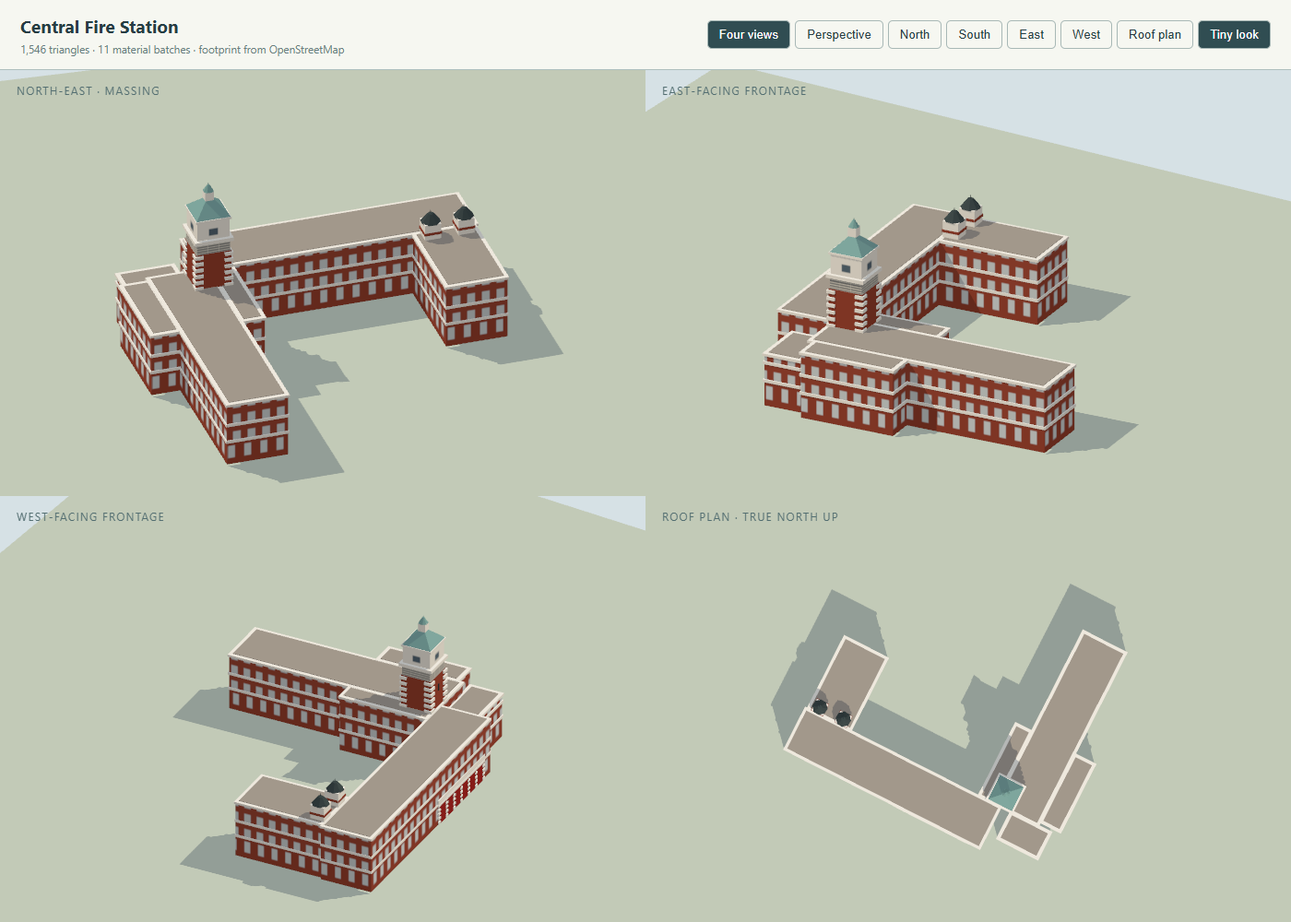
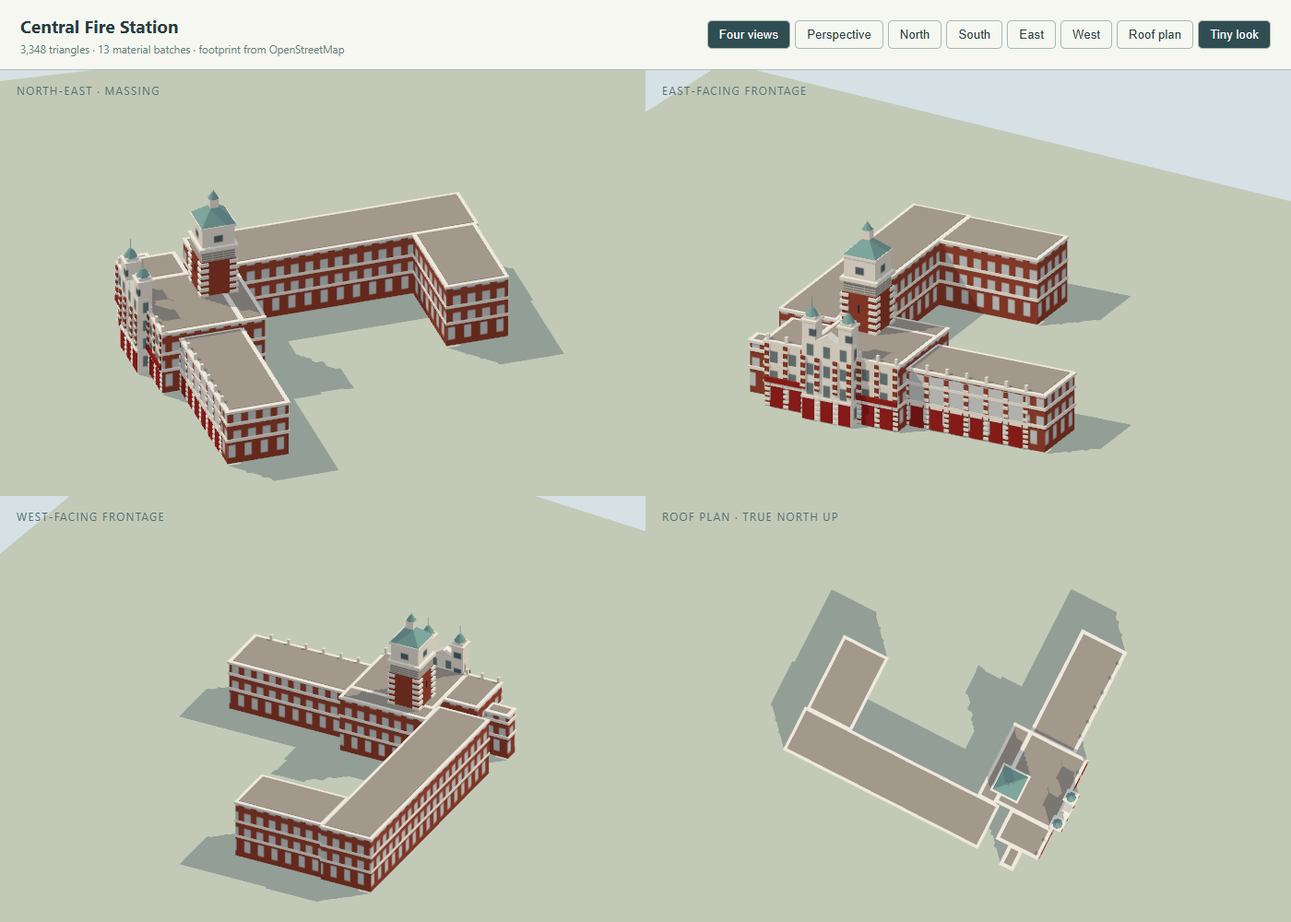
Turn SG-253 Central Fire Station's street front to Hill Street
The first version read the mapped ring the wrong way round. It put the
engine doors, striped piers and veranda on the long south-west range,
which backs onto Fort Canning, and left the Hill Street ranges plain. It
also put the turrets, with 2006-dark domes, on the far north-west block
and the tower 2.75 m south of its place. OSM's own Hill Street runs
along the ring's east side, and the 2023 photographs and the aerial
agree.

- The Hill Street face now carries the street front: seven red arched
  doors on the 1909 block (three on the frontispiece) and six on the
  lower extension to the north, between red-and-white striped piers,
  with a red balcony, white upper floors, white shutters, and pinnacles
  on the parapets.
- The white frontispiece rises to its pediment between the twin
  turrets, whose pale green copper domes and spikes match the 2023-25
  photographs. The tower is centred behind it.
- The south-west range is a plain back range.

A new test pins the orientation against OSM's Hill Street nodes and
fails on the first version; the other probes are relabelled to the real
ranges. Source notes, renders and the checklist row (back to review)
are updated. Full Windows suite 637 of 638 (only the tile-worker
fixture fails).

diff --git a/js/landmark-models/central-fire-station.js b/js/landmark-models/central-fire-station.js
@@ -1,5 +1,8 @@
 // The 1908-09 Hill Street fire station: red-brick ranges with white "bandage" bands around an
-// open drill yard, six red engine doors, domed corner turrets and the striped hose tower.
+// open drill yard. The street front faces Hill Street to the east: the white pedimented
+// frontispiece between its twin green-domed turrets, the striped hose tower centred behind it,
+// red arched doors between red-and-white striped piers along the 1909 block and the lower
+// extension to the north, under white parapets with pinnacles.
 // See docs/central-fire-station.md for the drawing frame and reference photographs.
 export const info = { name: 'Central Fire Station', height: 34 };
 
@@ -14,16 +17,28 @@ export function build(kit, site) {
     return kit.box({ x, z, yaw: Math.atan2(u[1], u[0]), ...options });
   };
   const plan = points => points.map(([a, b]) => point(a, b));
+  // A slab on the Hill Street side whose first wall is its street face at a1, running from b0
+  // to b1, so a facade's bays start at b0.
+  const facing = (a0, a1, b0, b1, y0, y1, material, top, name) => {
+    const r = plan([[a1, b0], [a1, b1], [a0, b1], [a0, b0]]);
+    const part = kit.prism({ ring: r, y0, y1, material, top, name });
+    kit.collisionPrism({ ring: r, y0, y1 });
+    return part;
+  };
 
   const brickGround = kit.facadeMaterial({ wall: 0x96422f, window: 0xe3e0d5, pattern: 'punched', floorHeight: 4.8, bayWidth: 3.2, windowWidth: 0.42, windowHeight: 0.55 });
   const brickUpper = kit.facadeMaterial({ wall: 0x9a4633, window: 0xdedbd0, pattern: 'punched', floorHeight: 3.7, bayWidth: 2.9, windowWidth: 0.52, windowHeight: 0.62 });
   const attic = kit.facadeMaterial({ wall: 0xf0ece1, window: 0x39474d, pattern: 'punched', floorHeight: 3.9, bayWidth: 6.4, windowWidth: 0.28, windowHeight: 0.38 });
   const louvre = kit.facadeMaterial({ wall: 0xd9d4c6, window: 0x4a423c, pattern: 'ribbon', floorHeight: 0.5, bayWidth: 2.2 });
+  // The street front's upper floors: white plaster round dark windows on the 1909 block and its
+  // frontispiece; white shutters between red piers on the extension.
+  const streetUpper = kit.facadeMaterial({ wall: 0xeee9dd, window: 0x5d6b62, pattern: 'punched', floorHeight: 3.9, bayWidth: 3.8, windowWidth: 0.42, windowHeight: 0.6 });
+  const frontispiece = kit.facadeMaterial({ wall: 0xf2eee4, window: 0x5d6b62, pattern: 'punched', floorHeight: 3.9, bayWidth: 10.3 / 3, windowWidth: 0.42, windowHeight: 0.6 });
+  const shutters = kit.facadeMaterial({ wall: 0x9a4633, window: 0xe6e3d8, pattern: 'strips', floorHeight: 11, bayWidth: 4.1, windowWidth: 0.74 });
   const white = kit.material(0xf0ece1);
   const brick = kit.material(0x96422f);
   const doorRed = kit.material(0x9c2320, { roughness: 0.55 });
   const copper = kit.material(0x7ea8a1, { roughness: 0.45, metalness: 0.3 });
-  const slate = kit.material(0x3e4a4a);
   const roofTop = kit.material(0xa39a8e);
   const dark = kit.material(0x33393b);
 
@@ -48,49 +63,78 @@ export function build(kit, site) {
     box(ac, bc, { y: cornice.y1 - 0.03, w: w - 1.1, h: 0.14, d: d - 1.1, material: roofTop, top: roofTop, name: `${name}-roof` });
   };
 
-  wing(0, 55, 0, 11.8, 12.6, 'front-range');
-  wing(0.6, 12.8, 11.8, 32.2, 12.6, 'coleman-wing');
-  wing(48.7, 53.3, 11.8, 32.2, 12.6, 'tower-court');
-  wing(53.3, 65.4, 11.8, 60.5, 12.6, 'rear-barracks');
-  wing(65.4, 71.1, 13, 32, 12.6, 'se-side-wing');
-  wing(57.8, 69, 4.4, 11.8, 9.9, 'se-street-pavilion');
+  // The ranges as the mapped ring decomposes: the plain back range toward Fort Canning and the
+  // north-west block across the yard; the 1909 block along Hill Street (narrower at its south
+  // end, with its yard-side court) and the lower extension running north from it to the corner
+  // block; the small porch at the south end.
+  wing(0, 54.5, 0, 11.8, 12.6, 'back-range');
+  wing(0.6, 12.8, 11.8, 32.2, 12.6, 'north-west-block');
+  wing(48.7, 53.3, 11.8, 32.1, 12.6, 'tower-court');
+  wing(53.3, 69, 12.5, 32, 12.6, 'hill-street-block');
+  wing(57.8, 69, 4.4, 12.5, 12.6, 'hill-street-south');
+  wing(53.3, 65.4, 32, 60.5, 10.9, 'hill-street-extension');
+  wing(61.5, 64.7, -0.9, 4.4, 9.9, 'south-porch');
 
-  // Hill Street engine house: six red doors between finely striped piers, under the
-  // shuttered veranda floor with its white balustrade band.
-  const doors = [32.9, 36.3, 39.7, 43.1, 46.5, 49.9];
-  for (const a of doors) {
-    box(a, -0.06, { y: 0, w: 2.5, h: 4.3, d: 0.24, material: doorRed, top: doorRed, name: 'engine-door' });
-    box(a, -0.13, { y: 4.28, w: 2.44, h: 0.45, d: 0.3, material: white, top: white, name: 'engine-door-lintel' });
+  // Hill Street front. The 1909 block's face stands at a 69 with the frontispiece projecting to
+  // a 71.1 between b 13.1 and 23.4; the extension's face is set back at a 65.4.
+  const FACE = 69, PROJ = 71.1, EXT = 65.4, MID = (13.1 + 23.4) / 2;
+  const front = [[FACE, [6.9, 10.7]], [PROJ, [14.5, MID, 22.0]], [FACE, [25.8, 29.6]], [EXT, [0, 1, 2, 3, 4, 5].map(k => 34.05 + k * 4.1)]];
+  const piers = [[FACE, [5.0, 8.8, 12.4, 24.0, 27.7, 31.5]], [PROJ, [16.4, 20.1]], [EXT, [0, 1, 2, 3, 4, 5, 6].map(k => 32 + k * 4.1)]];
+  for (const [face, doors] of front) for (const b of doors) {
+    box(face + 0.06, b, { y: 0, w: 0.24, h: 4.3, d: 2.5, material: doorRed, top: doorRed, name: 'engine-door' });
+    box(face + 0.13, b, { y: 4.28, w: 0.3, h: 0.45, d: 2.44, material: white, top: white, name: 'engine-door-lintel' });
   }
-  for (const a of [31.2, 34.6, 38, 41.4, 44.8, 48.2, 51.6]) {
-    for (let k = 0; k < 5; k++) box(a, -0.08, { y: 0.22 + k * 1.0, w: 0.95, h: 0.5, d: 0.34, material: white, top: white, name: 'striped-pier' });
+  for (const [face, list] of piers) for (const b of list) {
+    for (let k = 0; k < 5; k++) box(face + 0.08, b, { y: 0.22 + k * 1.0, w: 0.34, h: 0.5, d: 0.95, material: white, top: white, name: 'striped-pier' });
   }
-  box(41.4, -0.1, { y: 5.05, w: 21.4, h: 0.9, d: 0.25, material: white, top: white, name: 'veranda-balustrade' });
+  // The 1909 block's upper floors: white plaster between red-and-white striped piers, over the
+  // red balcony; the extension's white shutters between its red piers.
+  for (const [b0, b1] of [[4.45, 13.1], [23.4, 31.95]]) {
+    facing(FACE - 0.04, FACE + 0.15, b0, b1, 4.8, 12.58, streetUpper, white, 'street-upper'); // just under the block's own roof
+    facing(FACE, FACE + 0.6, b0 + 0.05, b1 - 0.05, 5.0, 6.0, doorRed, doorRed, 'balcony');
+  }
+  for (const [face, list] of [[FACE, piers[0][1]], [PROJ, [13.5, 16.4, 20.1, 23.0]]]) for (const b of list) {
+    box(face + 0.3, b, { y: 6.0, w: 0.3, h: 6.6, d: 0.9, material: brick, top: brick, name: 'upper-pier' });
+    for (let k = 0; k < 4; k++) box(face + 0.36, b, { y: 6.5 + k * 1.6, w: 0.3, h: 0.55, d: 0.96, material: white, top: white, name: 'upper-pier-stripe' });
+  }
+  facing(EXT - 0.04, EXT + 0.15, 32, 56.6, 4.8, 10.6, shutters, white, 'extension-shutters');
+  for (const b of piers[2][1]) for (let k = 0; k < 3; k++) box(EXT + 0.27, b, { y: 5.6 + k * 1.6, w: 0.24, h: 0.55, d: 1.0, material: white, top: white, name: 'upper-pier-stripe' });
+  // Pinnacles along both parapets, over the piers.
+  for (const b of piers[0][1]) box(FACE - 0.2, b, { y: 13.0, w: 0.55, h: 1.4, d: 0.55, material: white, top: white, name: 'pinnacle' });
+  for (const b of piers[2][1].slice(1)) box(EXT - 0.2, b, { y: 11.3, w: 0.55, h: 1.4, d: 0.55, material: white, top: white, name: 'pinnacle' });
 
-  // The twin domed turrets at the Coleman Street end of the front.
-  for (const [a, b] of [[3.2, 13.5], [9.8, 13.5]]) {
-    const turret = box(a, b, { y: 12.3, w: 3.2, h: 4.1, d: 3.2, material: white, top: white, name: 'turret' });
+  // The white frontispiece rising over the parapet to its pediment, between the two turrets.
+  facing(FACE, PROJ, 13.1, 23.4, 0, 15.8, frontispiece, white, 'frontispiece');
+  for (const [b0, b1, toward] of [[15.9, MID, 207], [MID, 20.6, 27]]) {
+    const r = plan([[FACE + 0.1, b0], [PROJ, b0], [PROJ, b1], [FACE + 0.1, b1]]);
+    kit.prism({ ring: r, y0: 15.8, y1: kit.sloped(r, 17.4, 1.5, toward), material: white, top: white, name: 'frontispiece-pediment' });
+  }
+  // The twin turrets on the frontispiece's corners: white stages, a cornice, a drum and the
+  // pale green copper domes with their spikes.
+  for (const b of [14.5, 22.0]) {
+    const a = PROJ - 1.45; // 5 cm inside the frontispiece's faces
+    const turret = box(a, b, { y: 12.6, w: 2.8, h: 6.8, d: 2.7, material: attic, top: white, name: 'turret' });
     kit.collisionPrism({ ring: turret.ring, y0: turret.y0, y1: turret.y1 });
-    box(a, b, { y: 14.2, w: 3.45, h: 0.5, d: 3.45, material: brick, top: brick, name: 'turret-band' });
+    box(a, b, { y: 19.4, w: 3.3, h: 0.4, d: 3.3, material: white, top: white, name: 'turret-cornice' });
+    box(a, b, { y: 19.8, w: 2.3, h: 0.6, d: 2.3, material: white, top: white, name: 'turret-drum' });
     const [cx, cz] = point(a, b);
     const domeRing = Array.from({ length: 8 }, (_, k) => {
       const t = k * Math.PI / 4 + Math.PI / 8;
-      return [cx + Math.cos(t) * 2.0, cz + Math.sin(t) * 2.0];
+      return [cx + Math.cos(t) * 1.35, cz + Math.sin(t) * 1.35];
     });
-    kit.loft({ ring: domeRing, y0: 16.35, y1: 18.1, scale: 0.28, material: slate, top: slate, name: 'turret-dome' });
-    kit.collisionPrism({ ring: kit.inset(domeRing, 0.9), y0: 16.35, y1: 18.1 });
-    kit.cylinder({ x: cx, z: cz, y0: 18.05, y1: 18.75, r: 0.07, segments: 6, material: slate, top: slate, name: 'turret-finial' });
+    kit.loft({ ring: domeRing, y0: 20.4, y1: 21.9, scale: 0.28, material: copper, top: copper, name: 'turret-dome' });
+    kit.collisionPrism({ ring: kit.inset(domeRing, 0.6), y0: 20.4, y1: 21.9 });
+    kit.cylinder({ x: cx, z: cz, y0: 21.85, y1: 24, r: 0.07, segments: 6, material: copper, top: copper, name: 'turret-finial' });
   }
 
-  // The hose/lookout tower behind the front range, where it turns into the rear barracks.
-  const T = { a: 54.5, b: 15.5 };
+  // The hose/lookout tower, centred behind the frontispiece where the 1909 block meets its court.
+  const T = { a: 54.5, b: MID };
   const shaft = box(T.a, T.b, { y: 12.3, w: 7, h: 8.45, d: 7, material: brick, top: roofTop, name: 'tower-shaft' });
   kit.collisionPrism({ ring: shaft.ring, y0: shaft.y0, y1: shaft.y1 });
-  for (const [ca, cb] of [[51, 12], [58, 12], [51, 19], [58, 19]]) {
-    const ia = ca + (ca < T.a ? 0.55 : -0.55), ib = cb + (cb < T.b ? 0.55 : -0.55);
-    for (let k = 0; k < 6; k++) box(ia, ib, { y: 13.1 + k * 1.35, w: 1.7, h: 0.62, d: 1.7, material: white, top: white, name: 'tower-quoin' });
+  for (const ca of [T.a - 2.95, T.a + 2.95]) for (const cb of [T.b - 2.95, T.b + 2.95]) {
+    for (let k = 0; k < 6; k++) box(ca, cb, { y: 13.1 + k * 1.35, w: 1.7, h: 0.62, d: 1.7, material: white, top: white, name: 'tower-quoin' });
   }
-  box(T.a, 11.95, { y: 17, w: 0.35, h: 1.6, d: 0.24, material: dark, top: dark, name: 'tower-slit' });
+  for (const [a, b, w, d] of [[T.a + 3.55, T.b, 0.24, 0.35], [T.a, T.b - 3.55, 0.35, 0.24]]) box(a, b, { y: 17, w, h: 1.6, d, material: dark, top: dark, name: 'tower-slit' });
   const louvres = box(T.a, T.b, { y: 20.7, w: 6.6, h: 2.3, d: 6.6, material: louvre, top: white, name: 'tower-louvres' });
   kit.collisionPrism({ ring: louvres.ring, y0: louvres.y0, y1: louvres.y1 });
   box(T.a, T.b, { y: 22.95, w: 7.7, h: 0.7, d: 7.7, material: white, top: white, name: 'tower-cornice' });

diff --git a/docs/central-fire-station.md b/docs/central-fire-station.md
@@ -1,32 +1,35 @@
 # Central Fire Station (SG-253)
 
-This model covers the 1908–09 Central Fire Station at 62 Hill Street — Singapore's oldest surviving fire station, a national monument still in operational use — in its present (2025–26) outward form: red-brick ranges around an open drill yard, the striped hose/lookout tower, and the domed corner turrets.
+This model covers the 1908–09 Central Fire Station at 62 Hill Street — Singapore's oldest surviving fire station, a national monument still in operational use — in its present (2023–25) outward form: red-brick ranges around an open drill yard, the street front facing Hill Street with its white pedimented frontispiece and twin domed turrets, and the striped hose tower behind them.
 
 ## References
 
 - [National Heritage Board's Roots entry](https://www.roots.gov.sg/places/places-landing/Places/national-monuments/central-fire-station) gives the site (62 Hill Street, at the foot of Fort Canning Hill), construction from 1908 to completion in 1909, designer William Ferguson, and the "blood-and-bandage" reading of the façade: exposed red brick ("blood") with white-painted plaster bands ("bandage"). The National Library Board's [Infopedia article](https://eresources.nlb.gov.sg/infopedia/articles/SIP_857_2004-12-15.html) adds that the three-storey main building held the engine house, firemen's quarters, workshops and a training yard, and that it was gazetted a national monument on 18 December 1998.
 - The NHB's republication at [Wonderwall](https://wonderwall.sg/places/national-monuments-of-singapore-central-fire-station) describes the 34-metre lookout tower, once manned around the clock; the model takes the tower (to its cupola finial) as its 34 m datum.
-- Reference photographs viewed 4 November 2026 on Wikimedia Commons: [Central Fire Station, Singapore, Jan 06](https://commons.wikimedia.org/wiki/File:Central_Fire_Station,_Singapore,_Jan_06.JPG) (Hill Street front: six arched red engine doors between fine red/white striped piers, shuttered veranda upper floors, white parapet, the striped tower behind, plainer brick side wing to the south-east, domed turrets at the north-west end), [CentralFireStation-Singapore-20081107-full](https://commons.wikimedia.org/wiki/File:CentralFireStation-Singapore-20081107-full.jpg) (tower detail: white quoin stripes on brick, slit window, louvred stage with small white columns, white attic stage with an arched window, pale green-copper pyramidal roof and domed lantern cupola), and [Central Fire Station, October 2025](https://commons.wikimedia.org/wiki/File:Central_Fire_Station,_October_2025.jpg) (current condition from Coleman Street: shuttered windows, white floor bands, the round-window turret).
+- Reference photographs viewed 4 November 2026 on Wikimedia Commons: [Estación central de bomberos, Singapur, 2023-08-18](https://commons.wikimedia.org/wiki/File:Estaci%C3%B3n_central_de_bomberos,_Singapur,_2023-08-18,_DD_10.jpg) (the Hill Street front square-on: from the south, a plain brick end, the 1909 block with seven red arched doors under a red balcony, its white frontispiece in the middle rising to a pediment between two white turrets with pale green copper domes and spikes, the tower centred behind them, then the lower extension with six red doors under white shutters, white balustrades with pinnacles, and a plain brick block at the north end), [At Singapore 2023 045 - Central Fire Station](https://commons.wikimedia.org/wiki/File:At_Singapore_2023_045_-_Central_Fire_Station.jpg) (the same front from the north along Hill Street, the tower rising behind the frontispiece), [2016 Singapur, Museum Planning Area, Budynek główny straży pożarnej (01)](https://commons.wikimedia.org/wiki/File:2016_Singapur,_Museum_Planning_Area,_Budynek_g%C5%82%C3%B3wny_stra%C5%BCy_po%C5%BCarnej_(01).jpg) (from the south: the plain brick south end, the tower behind it), [CentralFireStation-Singapore-20081107-full](https://commons.wikimedia.org/wiki/File:CentralFireStation-Singapore-20081107-full.jpg) (tower detail: white quoin stripes on brick, slit window, louvred stage with small white columns, white attic stage with an arched window, pale green-copper pyramidal roof and domed lantern cupola), [Central Fire Station, Singapore, Jan 06](https://commons.wikimedia.org/wiki/File:Central_Fire_Station,_Singapore,_Jan_06.JPG) (2006, from the north: the turrets' domes were then dark grey) and [Central Fire Station, October 2025](https://commons.wikimedia.org/wiki/File:Central_Fire_Station,_October_2025.jpg) (from the south: the domes are pale green copper today).
+- [Esri World Imagery](https://www.arcgis.com/home/item.html?id=10df2279f9684e4a9f6a7f08febac2a9) (z19 tiles, viewed 4 November 2026) with the mapped ring and OSM's Hill Street and Coleman Street drawn over it: Hill Street runs along the ring's east side, Coleman Street beyond its north end; the long south-west range with its row of roof lights backs onto the slope of Fort Canning; the tower's copper pyramid stands behind the middle of the Hill Street range.
 
 ## Footprint and massing
 
 The 25 October 2026 local OSM extract maps the whole complex as one 41-point way, [way 172368086](https://www.openstreetmap.org/way/172368086) (`building=fire_station`, `building:levels=3`, `height=20`, `start_date=1908`). This single way is the only replacement; there are no relations or inner rings, and the drill yard is open because the mapped ring itself is only the perimeter ranges (about 1,670 m² within an 84 × 59 m bounding span). The Armenian Church, Children's Museum and National Archives across the surrounding streets remain mapped.
 
-The model uses a local drawing frame from the ring's south-west (Hill Street) corner at 103.8485982°E, 1.2921487°N: `a` metres south-east along Hill Street (true bearing 117°) and `b` metres north-east into the site (bearing 27°). In that frame the ring decomposes into the ranges the model builds, abutting rather than overlapping:
+The model uses a local drawing frame from the ring's south-west corner at 103.8485982°E, 1.2921487°N: `a` metres along the long south-west range (true bearing 117°) and `b` metres north-north-east (bearing 27°), parallel to Hill Street, which runs along the ring's east side at about `a 74–78` (OSM's Hill Street nodes). In that frame the ring decomposes into the ranges the model builds, abutting rather than overlapping:
 
-- Hill Street front range `a 0–55, b 0–11.8` — ground floor (to 4.8 m) in punched brick with six red engine-door panels and fine striped piers on the street face (south-east section, doors centred `a 33–50`), shuttered upper floors to 12.6 m, white parapet to 13.4 m.
-- Coleman Street (north-west) wing `a 0.6–12.8, b 11.8–32.2`, same roofline, with the twin domed turrets (white stages to 16.4 m, dark domes to about 19 m) at its street end.
-- South-east side wing `a 65.4–71.1, b 13–32` and its street pavilion `a 57.8–69, b 4.4–12.5` (lower, to 10.5 m), following the ring's stepped south-east end.
-- Rear (north-east) barracks wing `a 53.3–65.4, b 32–60.5`, same 13.4 m roofline.
-- Hose/lookout tower centred `a 54.5, b 15`, where the ring widens behind the front range: a 7 × 7 m brick shaft with white corner quoin stripes rising from the front roof to 23 m, a white cornice and attic stage to 28 m, a pale copper-green pyramidal roof to 30.8 m and the domed lantern cupola to 34 m.
+- The plain back range `a 0–54.5, b 0–11.8`, its brick face toward Fort Canning, and the north-west block `a 0.6–12.8, b 11.8–32.2` across the drill yard: three storeys to 12.6 m.
+- The 1909 block along Hill Street, `a 53.3–69, b 12.5–32`, narrower at its south end (`a 57.8–69, b 4.4–12.5`), with its yard-side court `a 48.7–53.3, b 11.8–32.1`, to 12.6 m; the small porch `a 61.5–64.7, b −0.9–4.4` at the south end, to 9.9 m.
+- The lower extension north along Hill Street, `a 53.3–65.4, b 32–60.5`, to 10.9 m, its face set back to `a 65.4`.
+- The street front. The 1909 block's face at `a 69` and its white frontispiece projecting to `a 71.1` between `b 13.1` and `23.4` carry seven red arched doors (two, three on the frontispiece, two) between red-and-white striped piers, the red balcony at 5–6 m, white plaster upper floors with striped piers, and pinnacles on the parapet; the frontispiece rises to 15.8 m under a pediment to 17.4 m. The extension carries six red doors at 4.1 m centres, white shutters between its red piers, and pinnacles. Two turrets (2.8 m white stages from the roof to 19.4 m, cornice, drum, pale green copper domes to 21.9 m, spikes to 24 m) stand on the frontispiece's corners at `b 14.5` and `22.0`.
+- The hose/lookout tower centred behind the frontispiece at `a 54.5, b 18.25`: a 7 × 7 m brick shaft with white corner quoin stripes rising from the roof to 20.75 m, a louvred stage, a white cornice and attic stage to 28 m, a pale copper-green pyramidal roof to 30.8 m and the domed lantern cupola to 34 m.
 
-White floor bands (0.55 m deep, standing 0.12 m proud) run around every range at the floor lines, giving the "bandage" stripes at map scale. The mapped `height=20` describes the whole complex loosely; the ranges' 13.4 m and the tower stages are visual estimates from the photographs against the documented 34 m tower total (three 3.6–4.8 m storeys for the ranges). The drill yard (`a 13–49, b 12–60`) and the ground below the tower's roof stages stay open in geometry and collision; small rear steps in the mapped ring's south-east edge (ring points 28–38) are absorbed into the side wing and street pavilion rectangles.
+White floor bands (0.55 m deep, standing proud) run around every range at the floor lines, giving the "bandage" stripes at map scale. The mapped `height=20` describes the whole complex loosely; the ranges' heights, the frontispiece, turret and tower stages are visual estimates from the square-on 2023 photograph (about 19 px per metre at the façade) against the documented 34 m tower total. The drill yard (`a 13–49, b 12–60`) stays open in geometry and collision; small steps in the mapped ring are absorbed into the range rectangles.
+
+A first version of this model (PR #29) read the ring the wrong way round: it put the engine doors, striped piers and veranda on the south-west range facing Fort Canning, left the Hill Street ranges plain, placed the turrets with dark domes on the far north-west block, and the tower 2.75 m south of its place behind the frontispiece. It was corrected against the photographs and the aerial on 4 November 2026.
 
 ## Verification
 
-- Merged with current `main` (50 modelled landmarks in all), the city generator retained 71,784 trees and 15,828 generic buildings & parts, with 642 mapped ways left to the modelled landmarks. The tests check the single replacement ID, probe each range's three-storey height and both open yards at independently located coordinates from the drawing frame above, the tower's 34 m at its mapped position, six engine doors, and that collision stops descent through the ranges, tower shaft and pyramid roof while the drill yard and Hill Street stay clear.
-- All 273 targeted checks (every `landmark-*` test file plus Singapore landmarks and city geodata) passed on the merged branch, and 627 of 635 checks in the full Windows suite — the 8 failures are the known POSIX shell/worker fixtures, confirmed identical on the untouched base. Zero coplanar flicker pairs.
-- The preview uses 1,546 triangles and 11 material batches. Checked Tiny and daylight in WebGL and WebGPU from the north-east, south (Hill Street front), east, west and roof, and inspected the loaded city (ranges aligned to Hill Street, yard open, Fort Canning and the Coleman Street neighbours undisturbed).
-- [Four-view preview](images/central-fire-station-overview.png) and [city view](images/central-fire-station-city.jpg). With the repo served locally, use `/tools/landmark-preview.html?model=central-fire-station&view=s` or `/?look=tiny&at=central-fire-station&camera=map`.
+- The tests check the single replacement ID; probe each range's height and the open yard at coordinates placed from the drawing frame above; check that OSM's own Hill Street nodes lie along `a 73–79` with nothing built on them, that all thirteen red doors face Hill Street, that the pediment, both domed turrets and the tower stand in line with the turrets on the street front and the tower centred behind them, and that the back range toward Fort Canning has no street front; and check collision through the ranges, frontispiece, tower shaft and pyramid roof while the yard, Hill Street and the slope toward Fort Canning stay clear. The orientation test fails on the first version.
+- The full Windows suite passes 637 of 638 checks; the one failure is the known tile-worker fixture, which fails identically on `main`.
+- The preview uses 3,348 triangles, 279 parts and 13 material batches, and has zero coplanar flicker pairs. Perspective renders from the photographs' bearings (square-on to Hill Street, from the north along it) were compared side by side with the photographs in the daylight look, the four views checked in the Tiny look, and the loaded city checked from the map camera in WebGPU (the front facing Hill Street, the yard open, the neighbours undisturbed).
+- [Four-view preview](images/central-fire-station-overview.png) and [city view](images/central-fire-station-city.jpg). With the repo served locally, use `/tools/landmark-preview.html?model=central-fire-station&view=e` or `/?look=tiny&at=central-fire-station&camera=map`.
 
-Simplifications at miniature scale: the engine doors are flat red panels with white lintels between striped piers rather than real arches; the north-west block's ornate porch, pediments and the tower attic's arched window are suggested by the façade pattern and massing, not modelled piece by piece; the pyramid roof's collision is a conservative inset volume inside the visible slope. Estimated heights and tower stage divisions follow the photographs against the documented 34 m total, as noted above.
+Simplifications at miniature scale: the arched doors are flat red panels with white lintels; the striped piers are white bands on red; the balconies' railings, the frontispiece's arched windows and roundel, the turrets' open arcades and the tower attic's arched windows are suggested by façade patterns and massing, not modelled piece by piece; the domes are eight-sided lofts; the pyramid roof's collision is a conservative inset volume inside the visible slope. The back range's and north-west block's outer faces are not documented in the photographs and are drawn plain.

diff --git a/docs/landmark-checklist.md b/docs/landmark-checklist.md
@@ -285,7 +285,7 @@ Columns are deliberately row-local: update your row rather than maintaining shar
 | SG-250 | [ ] | The Cathay | Heritage front, tower and podium; verify era | todo | — |
 | SG-251 | [ ] | The Adelphi | Tower/podium and repetitive façade | todo | — |
 | SG-252 | [ ] | Peninsula Plaza and Peninsula Shopping Centre / hotel complex | Distinguish adjacent buildings and crowns | todo | — |
-| SG-253 | [x] | Central Fire Station | Blood-and-bandage ranges around the open drill yard: six red engine doors between striped piers, shuttered veranda floors, domed Coleman turrets, the 34 m striped hose tower with copper pyramid and cupola; [model](../js/landmark-models/central-fire-station.js), [sources and verification](central-fire-station.md), [render](images/central-fire-station-overview.png), [city](images/central-fire-station-city.jpg); 273 targeted / 627-of-635 Windows checks pass on merged main (8 documented platform fixtures) | done | Meta Muse / 01a1a4a1; `datainvestor/add-two-midlist-buildings`; user-assigned 2026-11-04; [PR #29](https://github.com/datainvestor/tiny-singapore/pull/29); accepted with PR #29 on 2026-11-04 after a photo review (full Windows suite 636 of 637 on the merged branch, only the tile-worker fixture failing) |
+| SG-253 | [ ] | Central Fire Station | Blood-and-bandage ranges around the open drill yard, the street front facing Hill Street: the white pedimented frontispiece between twin green-domed turrets with the 34 m striped hose tower centred behind it, seven red arched doors on the 1909 block and six on the lower extension between striped piers, white parapets with pinnacles; the plain back range toward Fort Canning; front re-oriented in a follow-up after the first version faced the park; [model](../js/landmark-models/central-fire-station.js), [sources and verification](central-fire-station.md), [render](images/central-fire-station-overview.png), [city](images/central-fire-station-city.jpg); full Windows suite 637 of 638 (only the tile-worker fixture fails) | review | Meta Muse / 01a1a4a1, front corrected by Claude Code; `datainvestor/add-two-midlist-buildings` ([PR #29](https://github.com/datainvestor/tiny-singapore/pull/29)), `claude/fire-station-hill-street-front`; user-assigned 2026-11-04; follow-up acceptance pending |
 | SG-254 | [ ] | Armenian Church | Small classical church, spire and portico | todo | — |
 | SG-255 | [ ] | Stamford Court | Corner clock tower and roof | todo | — |
 | SG-256 | [ ] | Stamford Arts Centre | Heritage wings and courtyard | todo | — |
